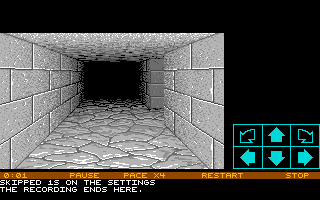
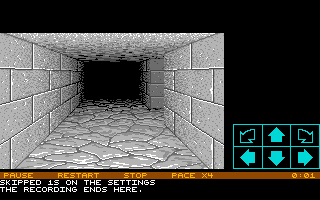
Debt G31: the viewer's strip in the order pause, RESTART, stop, pace, time played

diff --git a/src/renderer/ui/RecordingStrip.ts b/src/renderer/ui/RecordingStrip.ts
@@ -1,9 +1,9 @@
 /**
  * A recording's viewer's strip: the page's own, over the message area's top row while
- * `?recording=` plays (`playRecording`, `src/main.ts`), as `DEBT.md` G31 decides it. It
- * shows the time played and four controls, which a click or a key works: pause, the pace
- * (×1, ×2, ×4, ×8), RESTART and stop. Space pauses, `+` and `-` change the pace, Backspace
- * restarts and Esc stops.
+ * `?recording=` plays (`playRecording`, `src/main.ts`), as `DEBT.md` G31 decides it. From
+ * the left: four controls, which a click or a key works, pause, RESTART, stop and the pace
+ * (×1, ×2, ×4, ×8), then the time played at the right edge. Space pauses, Backspace
+ * restarts, Esc stops, and `+` and `-` change the pace.
  *
  * It is drawn in the menu's font and colours (`Widgets.ts`), a label lit under the
  * pointer, on CSBWin's screen as shown (`ScreenComposer.overlay`). The message area's
@@ -44,15 +44,15 @@ export interface StripState {
 export const STRIP_RECT: Rect = { x1: 0, y1: 172, x2: 319, y2: 178 };
 /** Its text's baseline, row 0's (`row*7 + 177`). */
 const STRIP_BASELINE = 177;
-/** Where the time played starts. */
-const TIME_X = 4;
+/** Where the time played ends, its last character's cell: it is set flush right. */
+const TIME_RIGHT = 316;
 
-/** Each control's left edge, and the label it shows. */
+/** Each control's left edge, and the label it shows, in the strip's order from the left. */
 const CONTROLS: ReadonlyArray<{ action: StripAction; x: number; label: (state: StripState) => string }> = [
-  { action: 'pause', x: 70, label: (state) => (state.paused ? 'PLAY' : 'PAUSE') },
-  { action: 'pace', x: 124, label: (state) => `PACE X${state.pace}` },
-  { action: 'restart', x: 202, label: () => 'RESTART' },
-  { action: 'stop', x: 286, label: () => 'STOP' },
+  { action: 'pause', x: 4, label: (state) => (state.paused ? 'PLAY' : 'PAUSE') },
+  { action: 'restart', x: 58, label: () => 'RESTART' },
+  { action: 'stop', x: 124, label: () => 'STOP' },
+  { action: 'pace', x: 172, label: (state) => `PACE X${state.pace}` },
 ];
 
 /** The time played, `M:SS`, or `H:MM:SS` from an hour on: the VBLs over sixty. */
@@ -72,7 +72,8 @@ function controlRect(x: number, label: string): Rect {
 /** The strip drawn over the message area's top row. */
 export function drawRecordingStrip(ui: UIState, state: StripState): void {
   fillRectIndex(ui.screenIndexBuffer, STRIP_RECT, MENU_PANEL_COLOR);
-  drawText(ui, timePlayed(state.vbls), TIME_X, STRIP_BASELINE);
+  const time = timePlayed(state.vbls);
+  drawText(ui, time, TIME_RIGHT - time.length * CHAR_WIDTH, STRIP_BASELINE);
   for (const control of CONTROLS) {
     drawText(ui, control.label(state), control.x, STRIP_BASELINE, state.hover === control.action ? LIT_COLOR : MENU_OPTION_COLOR);
   }

diff --git a/src/ui/howToPlay.ts b/src/ui/howToPlay.ts
@@ -97,12 +97,12 @@ const DIALOG = `
   <div class="how-sheet"></div>
   <section class="how-section how-replay">
     <h3 class="px">Watching a recording</h3>
-    <p>The strip over the messages shows the time played, and a click on it pauses, changes the pace, starts again or stops. So do these keys:</p>
+    <p>The strip over the messages shows the time played, and a click on it pauses, starts again, stops or changes the pace. So do these keys:</p>
     <dl class="how-list">
       <dt><span class="how-key px px2">Space</span></dt><dd>Pause, and play on</dd>
-      <dt><span class="how-key px px2">+</span><span class="how-key px px2">-</span></dt><dd>Faster and slower: once, twice, four or eight times the game's pace</dd>
       <dt><span class="how-key px px2">Backspace</span></dt><dd>Start again from the beginning</dd>
       <dt><span class="how-key px px2">Esc</span></dt><dd>Stop, and come back to this page</dd>
+      <dt><span class="how-key px px2">+</span><span class="how-key px px2">-</span></dt><dd>Faster and slower: once, twice, four or eight times the game's pace</dd>
     </dl>
   </section>
 </form>`;

diff --git a/tools/probe-frames.ts b/tools/probe-frames.ts
@@ -1784,7 +1784,7 @@ await wait(300);
 const paused = await evaluate(`(({ screen }) => ({ vbls: window.__probe.player().vbls, playing: window.__probe.player().playing,
   dialog: screen.ui.dialog !== null }))(window.__probe)`);
 await key('+'); await key('+');
-await canvasClick(80, 175);
+await canvasClick(14, 175);
 const paced = await evaluate(`window.__probe.game.pace`);
 await until('!window.__probe.player().playing', 'the recording played to its end');
 await until(`window.__probe.game.ctx.host.messages.snapshot().includes('THE RECORDING ENDS HERE.')`, 'the line at its end');

diff --git a/doc/UI_MODULE_MAP.md b/doc/UI_MODULE_MAP.md
@@ -49,7 +49,7 @@ A function that turns out not to need the state does not take it — the pure he
 | `ui/MapDialog.ts` | — (the port's own) | A level as the dialog over the game, its whole screen: `<`, the level's number and the square under the pointer, `>`, the marks' toggles G, M and I (a cross on each square with a generator, monsters or an item, `CellInfo.marked`) and CLOSE; the map at the left, at the largest whole cell that fits, a colour a room type, its columns and rows numbered, the party a triangle facing its way; at the right, the info of the square shown (`engine/CellInfo.ts`), a list whose links show the squares they name. With MAP VIEW on, the MAP key or a long press on the message area opens it (`GameInput`); a click shows a square; a page opened with `?dev` moves the party by a press held on one (`UIState.onTeleport`). `tools/checks/map-dialog.ts`, `tools/checks/map-cell-info.ts` |
 | `ui/ChampionDialog.ts` | — (the port's own) | The party's permanent numbers as the dialog over the game, its whole screen: a tabbed page of two tabs, CLOSE above it, and a table of four champion columns, the levels, maxima and attributes on ATTRIBUTES and the sixteen sub-skills on SKILLS, a level or sub-skill its mastery and a bar of its progress. With CHAMPION VIEW on, the CHAMPIONS key or a long press on a champion's stat bars opens it (`GameInput`), the long press marking that champion; a tap there is held back to its release, then queued as the inventory's click. `tools/checks/champion-dialog.ts` |
 | `ui/SettingsKeys.ts` | — (the port's own) | The settings dialog's KEYS tab: the presets (CSBWIN, KEYPAD, ARROWS, and CUSTOM for a table changed by hand), KEY LABELS' QWERTY or AZERTY where the browser does not give the keyboard's layout, and a scrolled list, three rows a notch of the wheel, of every `KeyAction` with its two keys. A click on a slot waits for a key, which fills it and leaves every other slot (`bindKey`); a right click empties it. `tools/checks/settings-dialog.ts`, `tools/checks/key-bindings.ts` |
-| `ui/RecordingStrip.ts` | — (the port's own) | A recording's viewer's strip while `?recording=` plays (`playRecording`, `src/main.ts`): over the message area's top row (`ScreenComposer.overlay`), whose lines are then drawn a row lower while its bottom row is empty, the time played and four controls in the menu's font, lit under the pointer: PAUSE or PLAY, the pace (×1, ×2, ×4, ×8, `Game.setPace`), RESTART and STOP; and their keys, Space, `+` and `-`, Backspace and Esc. RESTART puts the page back as a new page has it (`rewindPage`) and plays the path again. `tools/checks/replay.ts` (point 11), `tools/probe-frames.ts` |
+| `ui/RecordingStrip.ts` | — (the port's own) | A recording's viewer's strip while `?recording=` plays (`playRecording`, `src/main.ts`): over the message area's top row (`ScreenComposer.overlay`), whose lines are then drawn a row lower while its bottom row is empty, in the menu's font, from the left, four controls lit under the pointer, PAUSE or PLAY, RESTART, STOP and the pace (×1, ×2, ×4, ×8, `Game.setPace`), then the time played flush right; and their keys, Space, Backspace, Esc, and `+` and `-`. RESTART puts the page back as a new page has it (`rewindPage`) and plays the path again. `tools/checks/replay.ts` (point 11), `tools/probe-frames.ts` |
 | `ui/KeyLabels.ts` | — (the port's own) | A key's label in the game's font: what the keyboard prints on it, from the browser's layout map (`navigator.keyboard.getLayoutMap()`) or the QWERTY or AZERTY table, a character the font cannot draw named in letters. `tools/checks/key-bindings.ts` |
 | `ui/Inventory.ts` | `CSBUI.cpp` | Inventory screen, slot rectangles, the open chest, the eye's object-info panel, scroll reading, the Hall of Champions menu (`TAG0189a8`) |
 | `ui/Character.ts` | `Character.cpp` | Portraits, hand icons, shield dots, the damage figure over a hurt champion's name (`DisplayCharacterDamage`'s blit), life/stamina/mana bars, attributes, food/water, carried load, possession slots |

diff --git a/doc/RECORDING.md b/doc/RECORDING.md
@@ -409,14 +409,12 @@ except at the game's end, whose credits have the screen.
 
 **The viewer's strip** (`src/renderer/ui/RecordingStrip.ts`) has the page's input while
 a recording plays, drawn over the message area's top row, whose lines are then drawn a
-row lower while its bottom row is empty, so the three rows shown hold the newest. It
-shows the time played, the player's VBLs since the path's start (`RecordingPlayer.vbls`)
-over sixty, and four controls, which a click or a key works:
+row lower while its bottom row is empty, so the three rows shown hold the newest. From
+the left, it shows four controls, which a click or a key works, in the order below, then
+the time played flush right, the player's VBLs since the path's start
+(`RecordingPlayer.vbls`) over sixty:
 
 - **Pause** (Space): the loop held where it is (`Game.setPace(0)`), and on again.
-- **The pace** (`+` and `-`, or a click, round from ×8 to ×1): the loop's VBLs to a VBL
-  of the wall clock, 1, 2, 4 or 8 (`Game.setPace`). A span under a held clock is run at
-  once at any pace.
 - **RESTART** (Backspace): the path played again from its start in the same page, by a
   new player, once the page is put back as a new page has it (`rewindPage`): the loop
   stopped, its state a new loop's (`Game.resumeMainLoop`), the message area empty, the
@@ -427,6 +425,9 @@ over sixty, and four controls, which a click or a key works:
   play and plays it to the same end.
 - **Stop** (Esc): the player and the loop stopped, and the page left for the welcome
   page.
+- **The pace** (`+` and `-`, or a click, round from ×8 to ×1): the loop's VBLs to a VBL
+  of the wall clock, 1, 2, 4 or 8 (`Game.setPace`). A span under a held clock is run at
+  once at any pace.
 
 RESTART and stop end the message area played on alone. While the loop does not run,
 paused or at the end, a move of the pointer is drawn at the display's next frame

diff --git a/DEBT.md b/DEBT.md
@@ -779,9 +779,9 @@ Paying it, in steps; the design is decided, and step 8 is next.
    (`runMessagesAlone`, `src/main.ts`). `tools/checks/replay.ts` asserts the spans and
    their holders, and a recording whose logged stops name nothing.
 7. The viewer's strip and keys (`src/renderer/ui/RecordingStrip.ts`, `doc/RECORDING.md` →
-   "The port's player"): the time played, pause, the pace (`Game.setPace`), RESTART and
-   stop, over the message area's top row, whose lines are drawn a row lower while its
-   bottom row is empty, and on Space, `+`, `-`, Backspace and Esc, which HOW TO PLAY lists
+   "The port's player"): pause, RESTART, stop, the pace (`Game.setPace`) and the time
+   played, in that order from the left, over the message area's top row, whose lines are drawn a row lower while its
+   bottom row is empty, and on Space, Backspace, Esc, `+` and `-`, which HOW TO PLAY lists
    beside its sheet. RESTART puts the page back as a new page has it (`rewindPage`) and
    plays the path again; stop goes back to the welcome page; both end the message area
    played on alone. `tools/checks/replay.ts`, point 11, restarts each package's path a
